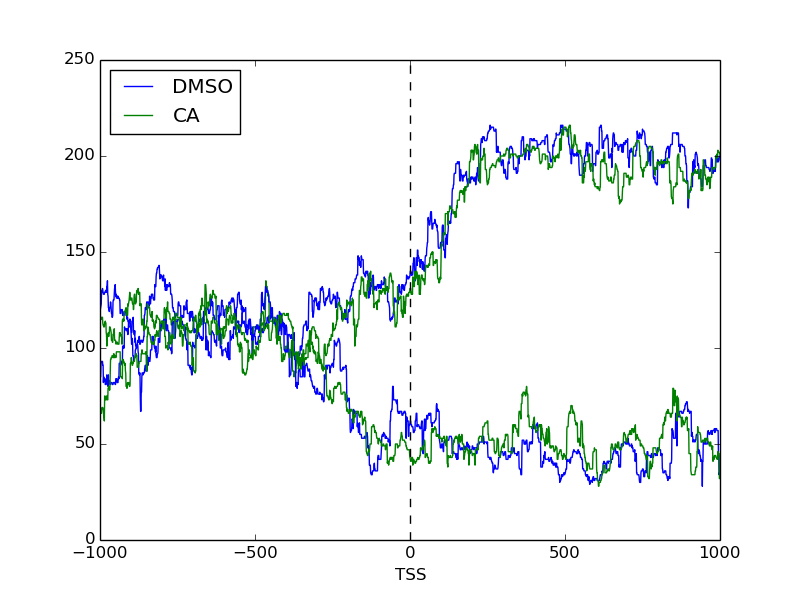
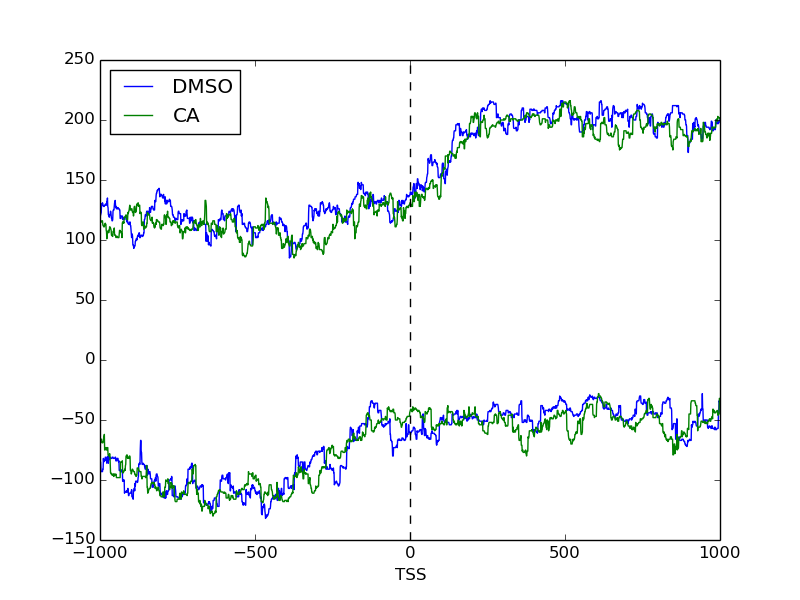
updates

diff --git a/src/metagene_TSS.py b/src/metagene_TSS.py
@@ -119,13 +119,25 @@ def run(file1,file2,file3):
             maximumanti = np.amin(CAantidict[gene][i])
             if maximumanti != 0:
                 CAantiarray[i] += -CAantidict[gene][i]/maximumanti
+    
+    DMSOmax = np.amax(DMSOarray)
+    DMSOantimax = np.amin(DMSOantiarray)
+    CAmax = np.amax(CAarray)
+    CAantimax = np.amin(CAantiarray)
+    
+    for i in range(window*2):
+        DMSOarray[i] = DMSOarray[i]/DMSOmax
+        DMSOantiarray[i] = -DMSOantiarray[i]/DMSOantimax
+        CAarray[i] = CAarray[i]/CAmax
+        CAantiarray[i] = CAantiarray[i]/CAantimax
+        
             
     F = plt.figure()
     x1 = np.arange(-1000,1000,1)
     plt.plot(x1,DMSOarray[window-1000:window+1000],color='b')
     plt.plot(x1,CAarray[window-1000:window+1000],color='g')
-    plt.plot(x1,DMSOantiarray[window-1000:window+1000],color='b')
-    plt.plot(x1,CAantiarray[window-1000:window+1000],color='g')
+    plt.plot(x1,DMSOantiarray[window-1000:window+1000],color='b',ls='dashed')
+    plt.plot(x1,CAantiarray[window-1000:window+1000],color='g',ls='dashed')
     plt.xlabel('TSS')
     plt.axvline(x=0.,color='k',ls='dashed')
     plt.legend(['DMSO', 'CA'], loc='upper left')
